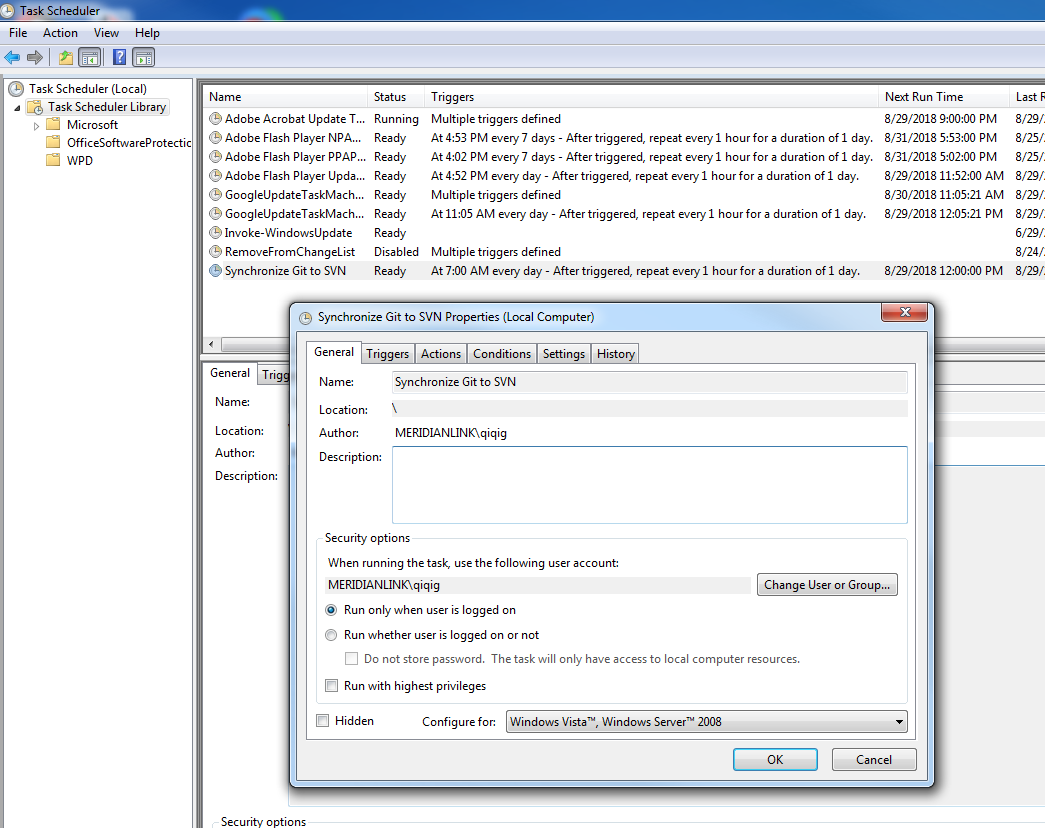
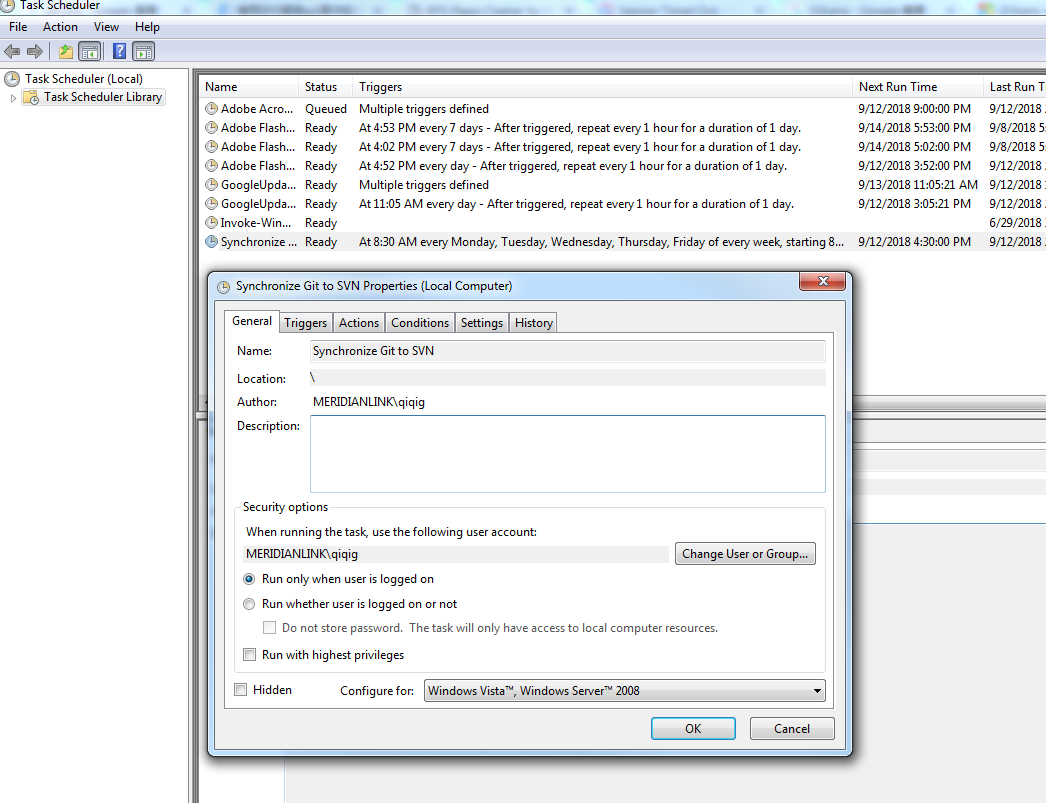
Complement and update documentation BugzID: 283720

diff --git a/README.md b/README.md
@@ -1,27 +1,33 @@
 # Git and SVN Two-way Synchronziation
 
 ## Setup
-Ask Qiqi to get a copy of LoansPQ2 Git-SVN repository. This repository has special linkings to the SVN repository, created by `git svn clone` command. An alternative way is to reconstruct Git-SVN linkings from the LoansPQ2 Git repository, which may take one or two days.
+Clone LoansPQ2 Git repository. 
 
-Create a local Windows account named git2svn. Make user to log in to that account using a user name like QIQIGWRK2\git2svn. The accout must have this specific name because our SVN uses Windows authentication and Ben has set up an SVN account named git2svn on the SVN server. That the two names match allows SVN to show commit author correctly.
+Create a local Windows account named git2svn. Make sure to log in to that account with user name `.\git2svn`. The accout must have this specific name because our SVN uses Windows authentication and Ben has set up an SVN account named git2svn on the SVN server. That the two names match allows SVN to show commit author correctly.
 
 Copy `\\CYBERTRON\loanspq\git\authors.txt` to your local drive because the script runs under the git2svn local user account, and thus doesn't have access to CYBERTRON.
 
 In the LoansPQ2 Git-SVN repository, set `svn.authorsfile` to the path of authors.txt.
 
-Switch user to git2svn, do necessary Git configuration, and make sure you can manully run sync.sh there.
+Switch user to git2svn, do necessary Git configuration, and make sure you can manully run sync.ps1 there.
 
-Switch user back to your regular user. Create a task in Windows Task Scheduler. In Security options, use your regular user account, and <u>Run only when user is logged on</u>.
+Switch user back to your regular user. Create a task in Windows Task Scheduler. In Security options, use your regular user account, and <u>Run only when user is logged on</u>. Only run the script on weekdays becauser we assume no developers will come to work at weekends.
 
 <img src="/raw/Tools/GitToSvn.git/master/docs!Task%20Scheduler%20General.png" alt="Task Scheduler General tab" width="80%"/>
 
 The synchronziation script doesn't require user input and outputs warnings and errors in case something is wrong. As the script is experimental, I don't recommend to use option <u>Run whether user is logged on or not</u> because it prevents Windows from showing the script window even if the user is logged on<sup>[1]</sup>.
 
-In Actions tab, run the PowerShell script, and pass the password of git2svn.
+In Actions tab, run the PowerShell script, and pass the password of git2svn. The <u>Start in</u> should be the path of the target Git-SVN repository.
 
 ![Task Scheduler Actions tab](/docs/Task%20Scheduler%20Actions.png)
 
 In Conditions tab, you may check Start only if the following network connection is available.
+
+## Disaster Recovery
+
+The synchronziation script will read and share Git-SVN linking metadata to `\\cybertron\loanspq\git\svn metadata\LoansPQ2-Git-SVN`. Do not do anything funny to this folder. 
+
+The script will keep 10 backups of the linking metadata and delete old ones. In case the backups are messed up, `git svn rebase` will reconstruct the metadata but it usually takes 1 to 2 days.
 
 
 ## References
